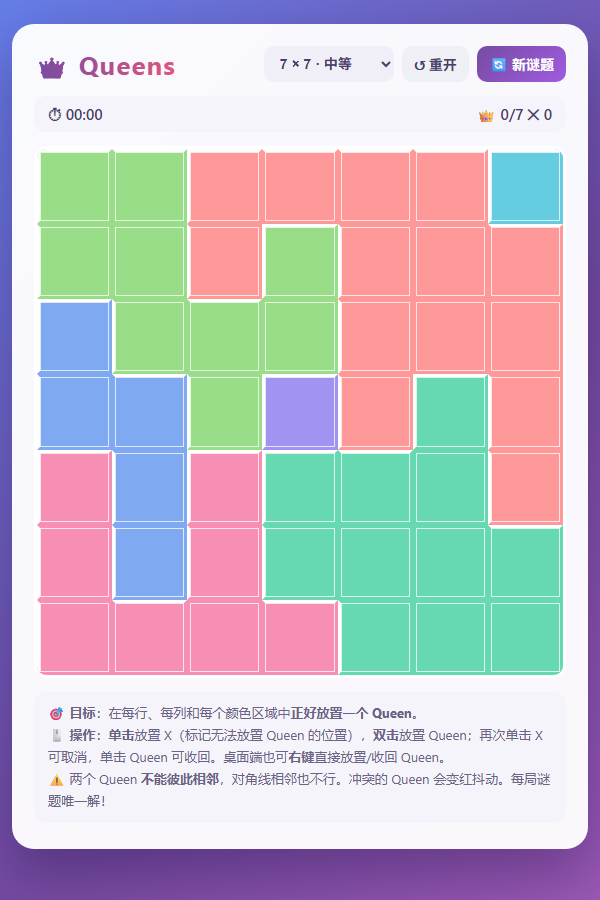
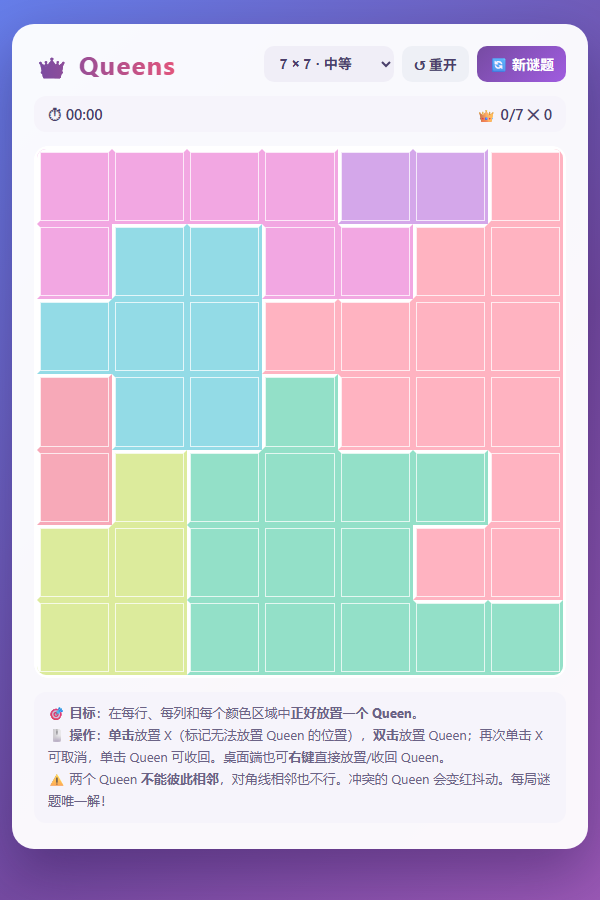
Polish region shapes: Voronoi growth, smoothing, area balance; softer palette

diff --git a/index.html b/index.html
@@ -227,31 +227,103 @@ function randomPermutationSolution(n) {
   return bt(0) ? pos : null;
 }
 
-// 多源随机竞争扩张：每个皇后作为种子长出一个连通色区，返回 region[r][c]
+// 区域生长：距离场(Voronoi)归属 + 连通修复 + 凸起平滑，生成圆润规整的色区
 function growRegions(n, seeds) {
+  const DIRS = [[-1, 0], [1, 0], [0, -1], [0, 1]];
   const region = Array.from({ length: n }, () => new Array(n).fill(-1));
-  const frontier = [];
-  const inF = new Set();
-  const push = (r, c, reg) => {
-    if (r < 0 || r >= n || c < 0 || c >= n) return;
-    const k = r * n + c;
-    if (region[r][c] !== -1 || inF.has(k)) return;
-    inF.add(k); frontier.push({ r, c, reg });
-  };
+  // 1) 每个种子带轻微随机偏移，按曼哈顿距离把格子分给最近的种子 → 边界近似平滑的 Voronoi 块
+  const bias = seeds.map(() => Math.random() * 2.4);
+  for (let r = 0; r < n; r++) for (let c = 0; c < n; c++) {
+    let best = 0, bd = Infinity;
+    for (let s = 0; s < n; s++) {
+      const d = Math.abs(r - seeds[s].r) + Math.abs(c - seeds[s].c) + bias[s];
+      if (d < bd) { bd = d; best = s; }
+    }
+    region[r][c] = best;
+  }
   seeds.forEach((s, i) => { region[s.r][s.c] = i; });
-  seeds.forEach((s, i) => {
-    push(s.r - 1, s.c, i); push(s.r + 1, s.c, i);
-    push(s.r, s.c - 1, i); push(s.r, s.c + 1, i);
-  });
-  while (frontier.length) {
-    const idx = Math.floor(Math.random() * frontier.length);
-    const f = frontier[idx];
-    frontier[idx] = frontier[frontier.length - 1]; frontier.pop();
-    inF.delete(f.r * n + f.c);
-    if (region[f.r][f.c] !== -1) continue;
-    region[f.r][f.c] = f.reg;
-    push(f.r - 1, f.c, f.reg); push(f.r + 1, f.c, f.reg);
-    push(f.r, f.c - 1, f.reg); push(f.r, f.c + 1, f.reg);
+  // 2) 连通修复：每区从种子 BFS，未连通的格子并入包围它最多的相邻区
+  for (let g = 0; g < n; g++) {
+    const vis = new Set([seeds[g].r * n + seeds[g].c]);
+    const q = [[seeds[g].r, seeds[g].c]];
+    while (q.length) {
+      const [r, c] = q.pop();
+      for (const [dr, dc] of DIRS) {
+        const rr = r + dr, cc = c + dc;
+        if (rr >= 0 && rr < n && cc >= 0 && cc < n && region[rr][cc] === g && !vis.has(rr * n + cc)) {
+          vis.add(rr * n + cc); q.push([rr, cc]);
+        }
+      }
+    }
+    for (let r = 0; r < n; r++) for (let c = 0; c < n; c++) {
+      if (region[r][c] === g && !vis.has(r * n + c)) {
+        const cnt = new Map();
+        for (const [dr, dc] of DIRS) {
+          const rr = r + dr, cc = c + dc;
+          if (rr >= 0 && rr < n && cc >= 0 && cc < n) {
+            const x = region[rr][cc];
+            if (x !== g) cnt.set(x, (cnt.get(x) || 0) + 1);
+          }
+        }
+        let bestR = g, bestC = -1;
+        for (const [x, v] of cnt) if (v > bestC) { bestC = v; bestR = x; }
+        region[r][c] = bestR;
+      }
+    }
+  }
+  // 3) 平滑迭代：把三面被同一邻居包围的「凸起单格」并入该邻居（保持两区连通、种子不动）
+  const isSeed = (r, c) => seeds.some(s => s.r === r && s.c === c);
+  for (let iter = 0; iter < 4; iter++) {
+    let changed = false;
+    for (let r = 0; r < n; r++) for (let c = 0; c < n; c++) {
+      if (isSeed(r, c)) continue;
+      const a = region[r][c];
+      const cnt = new Map();
+      for (const [dr, dc] of DIRS) {
+        const rr = r + dr, cc = c + dc;
+        if (rr >= 0 && rr < n && cc >= 0 && cc < n) {
+          const x = region[rr][cc];
+          if (x !== a) cnt.set(x, (cnt.get(x) || 0) + 1);
+        }
+      }
+      if (cnt.size !== 1) continue;
+      const b = [...cnt.keys()][0];
+      if (cnt.get(b) < 3) continue;
+      region[r][c] = b;
+      if (!regionConnected(n, region, a) || !regionConnected(n, region, b)) region[r][c] = a;
+      else changed = true;
+    }
+    if (!changed) break;
+  }
+  // 4) 面积平衡：面积过小的区域从相邻区域借格子，避免单格碎片
+  const countAreas = () => {
+    const a = new Array(n).fill(0);
+    for (let r = 0; r < n; r++) for (let c = 0; c < n; c++) a[region[r][c]]++;
+    return a;
+  };
+  for (let iter = 0; iter < 2; iter++) {
+    const areas = countAreas();
+    for (let g = 0; g < n; g++) {
+      if (areas[g] >= 3) continue;
+      const cand = [];
+      for (let r = 0; r < n; r++) for (let c = 0; c < n; c++) {
+        const h = region[r][c];
+        if (h === g) continue;
+        const adj = DIRS.some(([dr, dc]) => {
+          const rr = r + dr, cc = c + dc;
+          return rr >= 0 && rr < n && cc >= 0 && cc < n && region[rr][cc] === g;
+        });
+        if (adj && areas[h] > 4) cand.push([r, c, h]);
+      }
+      shuffleArr(cand);
+      for (const [r, c, h] of cand) {
+        if (areas[g] >= 3) break;
+        if (areas[h] <= 4) continue;
+        region[r][c] = g;
+        if (regionConnected(n, region, h) && regionConnected(n, region, g)) { areas[g]++; areas[h]--; }
+        else region[r][c] = h;
+      }
+    }
   }
   return region;
 }
@@ -406,10 +478,10 @@ function generatePuzzle(n, maxAttempts) {
 /* ============ ALGO END ============ */
 
 /* ============ UI ============ */
-// 12 个色相均匀分布、彼此可辨的颜色；每个色区分配唯一颜色
+// 12 个柔和统一、彼此可辨的粉彩色；每个色区分配唯一颜色
 const PALETTE = [
-  "#ff9999", "#ffb366", "#ffdd66", "#e1ed66", "#99dd88", "#66d9b3",
-  "#66cce0", "#7fa9f0", "#a093f2", "#c08fe0", "#e68fd6", "#f78fb5"
+  "#ffb3c1", "#ffc9a3", "#ffe08a", "#dceb9c", "#aee0a0", "#93e0c8",
+  "#93dbe6", "#a6bdf0", "#b8a9f2", "#d4a7ea", "#f2a7e2", "#f7a9b8"
 ];
 
 let N = 7;

diff --git a/README.md b/README.md
@@ -34,10 +34,12 @@
 
 ## 🧠 谜题是怎么生成的（技术说明）
 
-1. 随机回溯生成一个满足全部约束的「主解」；
-2. 以每个 Queen 为种子做**多源随机竞争扩张**，长出 N 个连通色区；
-3. 用回溯求解器数解：若存在多余解，把多余解的 Queen 格**重划入相邻色区**精确消灭之（数学上可证该操作只会减少解、不影响主解），配合随机扰动跳出僵局；
-4. 迭代直到**唯一解**（实测 6×6–9×9 接近 100%，11×11 约 87%，极端情况限时退化为多解谜题，仍可正常游玩）。
+1. 随机回溯生成一个满足全部约束的「主解」（每行每列各一个、互不相邻）；
+2. **距离场（Voronoi）生长**：以每个 Queen 为种子，按加权曼哈顿距离把格子分给最近的种子，得到近似平滑的块状色区；
+3. **连通修复 + 凸起平滑**：断开的小块并入邻居，三面被同一色区包围的「凸起单格」消除，让区域边界更规整；
+4. **面积平衡**：面积极小的色区从相邻色区借格子，避免 1~2 格的碎片；
+5. 用回溯求解器数解：若存在多余解，把多余解的 Queen 格**重划入相邻色区**精确消灭之（数学上可证该操作只会减少解、不影响主解），配合随机扰动跳出僵局；
+6. 迭代直到**唯一解**（实测 6×6–9×9 接近 100%，11×11 约 70%，极端情况限时退化为多解谜题，仍可正常游玩）。
 
 `test.js` 为生成器压力测试（直接从 index.html 提取真实算法运行）：
 
